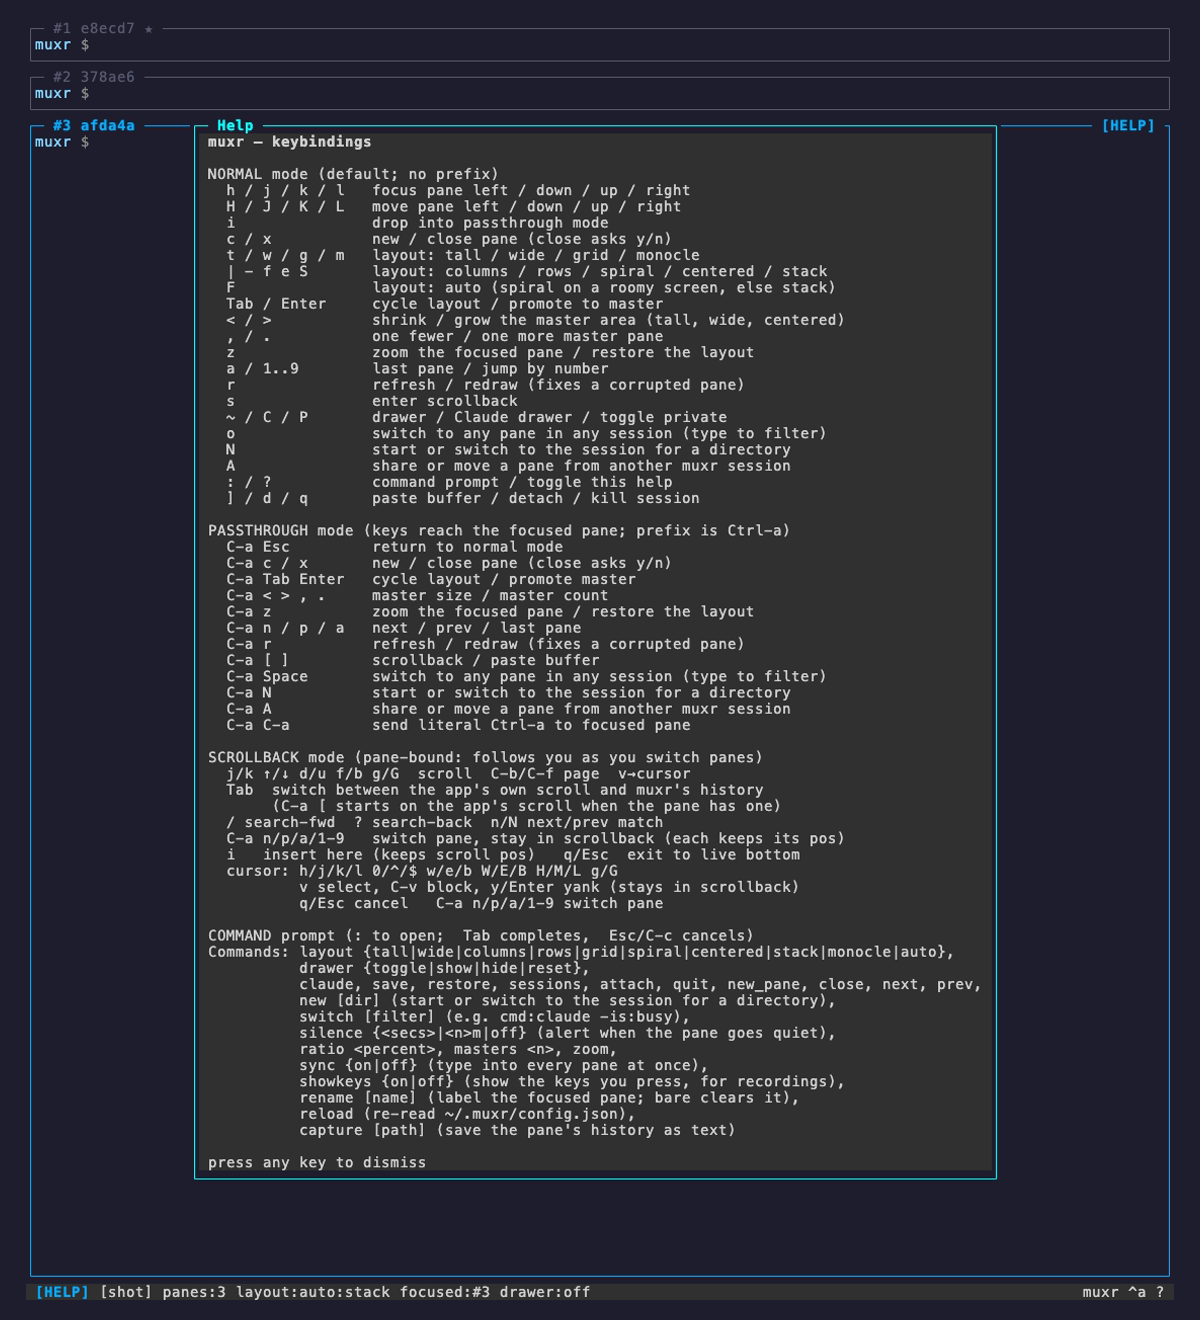
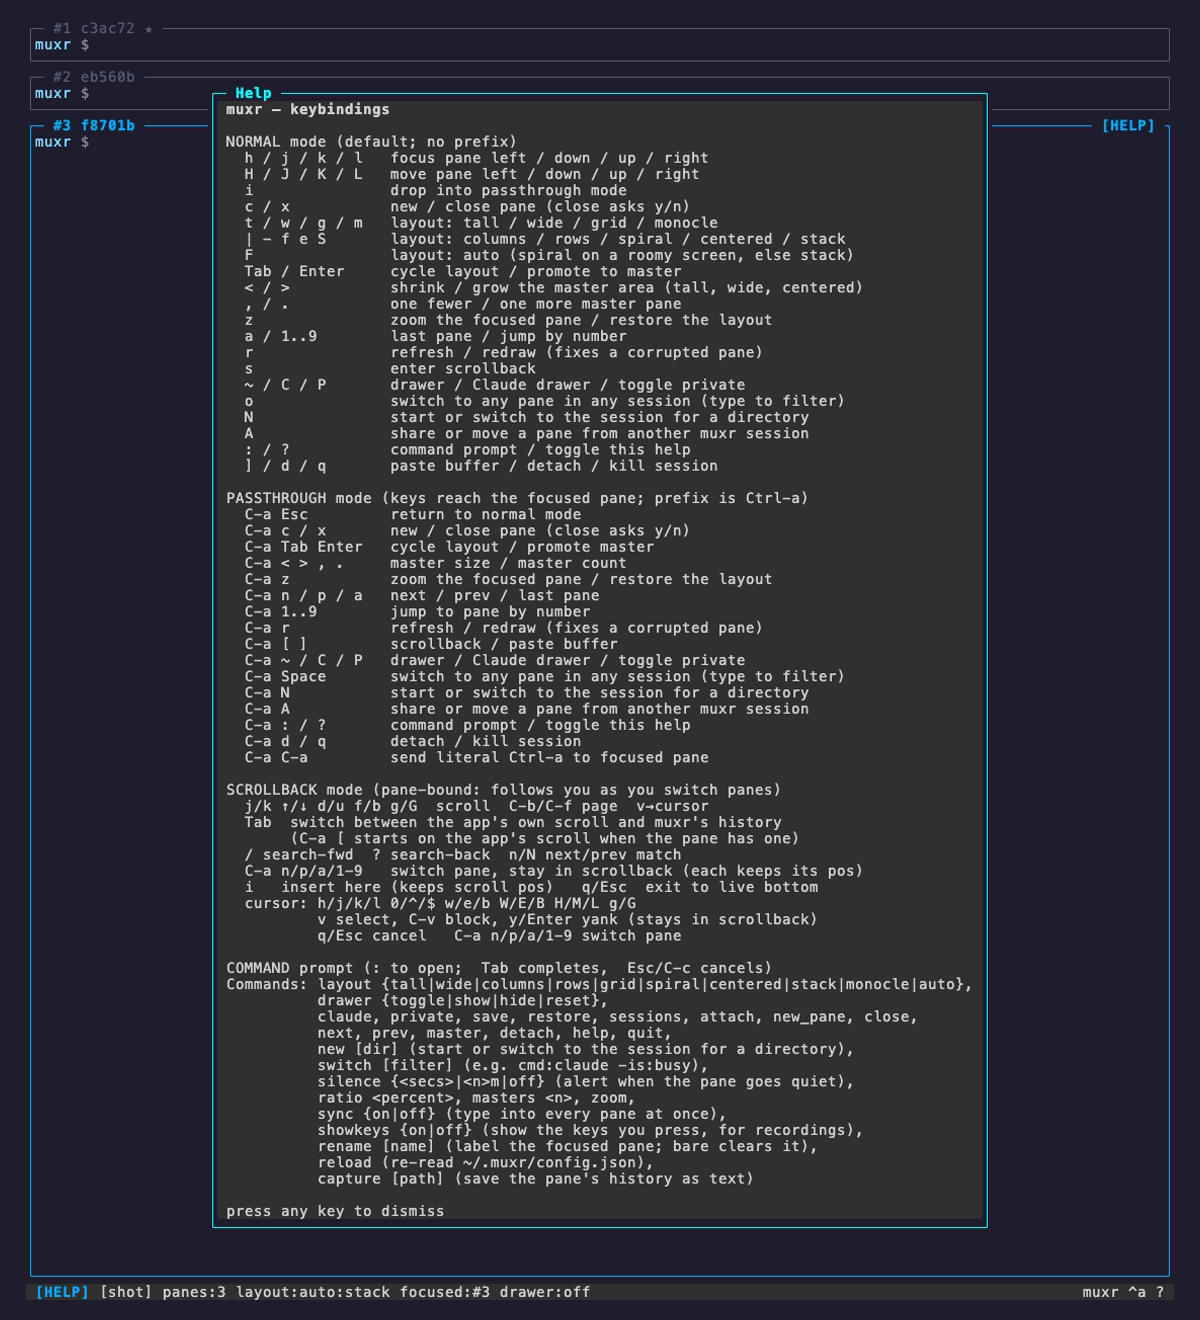
List every key and command in the help overlay
Changes:

**Help overlay**
- Passthrough section gains C-a 1..9, C-a ~ / C / P, C-a : / ? and
  C-a d / q, all of which were bound but undocumented
- Commands list gains private, master, detach and help

**Testing**
- test_renderer.rb checks the help against NORMAL_BINDINGS,
  PREFIX_BINDINGS (plus the reserved keys) and the command completions,
  so a new key or command can't be left out of the overlay again

**Docs**
- Reshot docs/screenshots/help.png and noted the fix in the changelog

Changed region(s): [[0.1542, 0.0621, 0.8325, 0.9318], [0.0617, 0.0932, 0.0925, 0.1242]]

diff --git a/test/test_renderer.rb b/test/test_renderer.rb
@@ -1,6 +1,6 @@
 require "test_helper"
 require "stringio"
-require "muxr/renderer"
+require "muxr"
 
 class TestRenderer < Minitest::Test
   # Renderer duck-types panes on rect/terminal/resize, so a small struct
@@ -341,5 +341,41 @@ class TestRenderer < Minitest::Test
     fresh = StringIO.new
     Muxr::Renderer.new(out: fresh).render(session, help: help)
     outer_screen(fresh.string, session)
+  end
+
+  KEY_LABELS = { "\t" => "Tab", "\r" => "Enter", " " => "Space", "\e" => "Esc" }.freeze
+
+  def help_section(title)
+    lines = Muxr::Renderer::HELP_LINES
+    start = lines.index { |line| line.start_with?(title) }
+    lines[(start + 1)..].take_while { |line| !line.empty? }
+  end
+
+  def help_tokens(title)
+    help_section(title).flat_map { |line| line.split(/[\s\/]+/) }
+  end
+
+  def key_label(key)
+    KEY_LABELS.fetch(key) { key.match?(/\A[1-9]\z/) ? "1..9" : key }
+  end
+
+  def test_help_lists_every_normal_mode_key
+    tokens = help_tokens("NORMAL")
+    keys = Muxr::InputHandler::NORMAL_BINDINGS.keys - ["\n"] + Muxr::Config::RESERVED_NORMAL_KEYS
+    missing = keys.map { |key| key_label(key) }.uniq.reject { |label| tokens.include?(label) }
+    assert_empty missing
+  end
+
+  def test_help_lists_every_passthrough_key
+    tokens = help_tokens("PASSTHROUGH")
+    keys = Muxr::InputHandler::PREFIX_BINDINGS.keys - ["\n"] + Muxr::Config::RESERVED_PREFIX_KEYS
+    missing = keys.map { |key| key_label(key) }.uniq.reject { |label| tokens.include?(label) }
+    assert_empty missing
+  end
+
+  def test_help_lists_every_command
+    text = help_section("COMMAND").join(" ")
+    missing = Muxr::CommandDispatcher::COMPLETIONS.reject { |command| text.match?(/(?<![\w-])#{command}(?![\w-])/) }
+    assert_empty missing
   end
 end

diff --git a/lib/muxr/renderer.rb b/lib/muxr/renderer.rb
@@ -549,11 +549,15 @@ module Muxr
       "  C-a < > , .     master size / master count",
       "  C-a z           zoom the focused pane / restore the layout",
       "  C-a n / p / a   next / prev / last pane",
+      "  C-a 1..9        jump to pane by number",
       "  C-a r           refresh / redraw (fixes a corrupted pane)",
       "  C-a [ ]         scrollback / paste buffer",
+      "  C-a ~ / C / P   drawer / Claude drawer / toggle private",
       "  C-a Space       switch to any pane in any session (type to filter)",
       "  C-a N           start or switch to the session for a directory",
       "  C-a A           share or move a pane from another muxr session",
+      "  C-a : / ?       command prompt / toggle this help",
+      "  C-a d / q       detach / kill session",
       "  C-a C-a         send literal Ctrl-a to focused pane",
       "",
       "SCROLLBACK mode (pane-bound: follows you as you switch panes)",
@@ -570,7 +574,8 @@ module Muxr
       "COMMAND prompt (: to open;  Tab completes,  Esc/C-c cancels)",
       "Commands: layout {tall|wide|columns|rows|grid|spiral|centered|stack|monocle|auto},",
       "          drawer {toggle|show|hide|reset},",
-      "          claude, save, restore, sessions, attach, quit, new_pane, close, next, prev,",
+      "          claude, private, save, restore, sessions, attach, new_pane, close,",
+      "          next, prev, master, detach, help, quit,",
       "          new [dir] (start or switch to the session for a directory),",
       "          switch [filter] (e.g. cmd:claude -is:busy),",
       "          silence {<secs>|<n>m|off} (alert when the pane goes quiet),",

diff --git a/CHANGELOG.md b/CHANGELOG.md
@@ -42,6 +42,10 @@ follow [Semantic Versioning](https://semver.org/spec/v2.0.0.html).
 - `:new` no longer opens a pane; use `:new_pane` (or `:c`, `c`, `C-a c`).
 
 ### Fixed
+- The `?` help lists every passthrough key (`C-a 1..9`, `~ C P`, `: ?`,
+  `d q`) and every command (`private`, `master`, `detach`, `help` were
+  missing). Tests now check it against the binding tables and the command
+  list, so a new key or command can't be left out again.
 - A shell pane keeps its output through a re-tile. A shrink used to keep the
   bottom rows even when they were blank, pushing the prompt and everything
   above it into scrollback, and a grow never brought them back. Now a shrink
